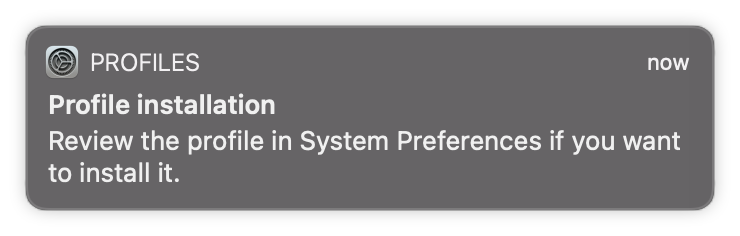
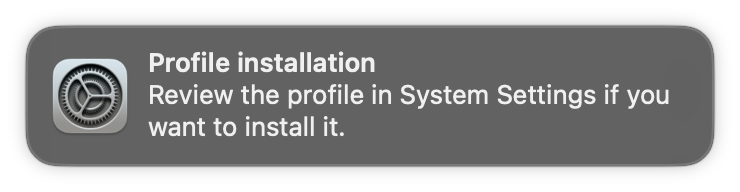
Updated the MacOS screenshots

Changed region(s): [[0.0311, 0.0938, 0.9635, 0.9062], [0.8703, 0.2188, 0.9324, 0.3125]]

diff --git a/_pages/mac-mdm2.md b/_pages/mac-mdm2.md
@@ -8,50 +8,47 @@ header:
   overlay_color: "#333"
 ---
 
+# Manually enrolling into our MDM
+
 As you didn't get the notification, we can use another method to try enroll your device. 
 
-First we are going to log into Slack.
-
-In Safari you will need to go to: __square.enterprise.slack.com__ where you will be prompted to set up Okta.
+* First we are going to log into Slack. In Safari you will need to go to: __square.enterprise.slack.com__ where you will be prompted to set up Okta.
 
 {% include duosetup.md %}
 
 After completing Okta setup you can open the appropriate Slack Workspace.
 
-Next, in Safari you will need to go to this website: __go.sqprod.co/mdmold__
-
-Once you get there you will be prompted to log in using Okta again. Enter the same login information you just used and __Send a Push__ when prompted.
+* Next, in Safari you will need to go to this website: __go.sqprod.co/mdmold__
+* Once you get there you will be prompted to log in using Okta again. Enter the same login information you just used and __Send a Push__ when prompted.
 
 {% include figure url="/assets/images/mac-enable-management.png" image_path="/assets/images/mac-enable-management.png" %}
 
-After logging in you will be presented with a screen asking you to __Enable Device Management__. Click on [Redirect and Enable](){: .btn .btn--inverse} 
+* After logging in you will be presented with a screen asking you to __Enable Device Management__. Click on [Redirect and Enable](){: .btn .btn--inverse} 
 
 {% include figure url="/assets/images/mac-allow-airwatch.png" image_path="/assets/images/mac-allow-airwatch.png" %}
 
-When prompted by Safari to allow downloads, click [Allow](){: .btn .btn--inverse} 
+* When prompted by Safari to allow downloads, click [Allow](){: .btn .btn--inverse} 
+
+* macOS will prompt you with a notification for __Profile Installation__. You will need to open __System Settings__ to complete the installation.
 
 {% include figure url="/assets/images/mac-review-profile.png" image_path="/assets/images/mac-review-profile.png" %}
 
+* You can find System Settings by clicking the __Apple logo__ on the top left corner of the screen.
+
 {% include figure url="/assets/images/mac-apple-menu.png" image_path="/assets/images/mac-apple-menu.png" %}
 
-macOS will prompt you with a notification for __Profile Installation__. You will need to open __System Preferences__ to complete the installation. You can find System Preferences by clicking the __Apple logo__ in the top left corner of the screen.
+* After opening up System Settings, click on the search bar on the top left and search for __Profiles__.
+* Click the [Profiles](){: .btn .btn--inverse}  button in the search option.
 
-{% include figure url="/assets/images/mac-system-preferences.png" image_path="/assets/images/mac-system-preferences.png" %}
+{% include figure url="/assets/images/mac-system-settings-05.png" image_path="/assets/images/mac-system-settings-05.png" %}
 
-In System Preferences, click the [Profiles](){: .btn .btn--inverse}  button in the bottom right corner.
+* Click [Install](){: .btn .btn--inverse}  when asked to install the Workspace Services profile.
 
-{% include figure url="/assets/images/mac-workspace-services.png" image_path="/assets/images/mac-workspace-services.png" %}
+{% include figure url="/assets/images/mac-system-settings-02.png" image_path="/assets/images/mac-system-settings-02.png" %}
 
-Click [Install](){: .btn .btn--inverse}  on the Workspace Services Profile
+* Enter your __laptop__ password when prompted.
+* After several seconds, you should see the __Device Manager__ profile show that your device has been verified.
 
-{% include figure url="/assets/images/mac-device-manager.png" image_path="/assets/images/mac-device-manager.png" %}
-
-Click [Install](){: .btn .btn--inverse}  when asked to install the Device Manager profile.
-
-Enter your __laptop__ password when prompted
-
-{% include figure url="/assets/images/mac-profiles.png" image_path="/assets/images/mac-profiles.png" %}
-
-After several seconds, you should see the __Device Manager__ profile show that your device has been verified.
+{% include figure url="/assets/images/mac-system-settings-04.png" image_path="/assets/images/mac-system-settings-04.png" %}
 
 [Next Step &rarr;](/mac-installs){: .btn .btn--success .btn--large}

diff --git a/_pages/mac-druva.md b/_pages/mac-druva.md
@@ -8,37 +8,31 @@ header:
   overlay_color: "#333"
 ---
 
-We use __Druva__ to continuously backup your MacBook to the cloud, just to be safe. Let’s check to see if it is activated now.
+# Druva Setup
 
-Start by clicking on the Druva icon near the Okta Verify icon in the top-right corner of your MacBook.
+* Start by clicking the Druva icon near the Okta Verify icon in the top-right corner of your MacBook.
+* Click on Activate Backup.
 
-If you see either of the below menus, Druva has been activated and you can [Restore Druva Backup &rarr;](/mac-druva-restore/){: .btn .btn--success .btn--large} or [Next Step &rarr;](/mac-yubikey/){: .btn .btn--success .btn--large}
+{% include figure url="/assets/images/mac-druva-01.png" image_path="/assets/images/mac-druva-01.png" %}
 
-{% include figure url="/assets/images/druva-mac3.jpeg" image_path="/assets/images/druva-mac3.jpeg" %}
+* Enter your username ending in @squareup.com and click Continue{: .btn .btn–inverse .btn–small}
+__Note:__ This will not work with an @tidal.com or @block.xyz domain. You must use @squareup.com. For example, use jsmith@squareup.com instead of jsmith@block.xyz.
 
-{% include figure url="/assets/images/druva-mac4.jpg" image_path="/assets/images/druva-mac4.jpg" %}
+{% include figure url="/assets/images/mac-druva-03.png" image_path="/assets/images/mac-druva-03.png" %}
 
-If you see “__Activate Backup…__” continue below:
+* After entering your username, a Google Chrome page will appear with a prompt asking you to “Open Druva inSync.” Click on Open Druva inSync.
 
-{% include figure url="/assets/images/druva-mac-tray.jpg" image_path="/assets/images/druva-mac-tray.jpg" %}
+{% include figure url="/assets/images/mac-druva-04.png" image_path="/assets/images/mac-druva-04.png" %}
 
-Click on __Activate Backup__.
+* Click on Add as New Device.
 
-{% include figure url="/assets/images/druva-activate.jpg" image_path="/assets/images/druva-activate.jpg" %}
+{% include figure url="/assets/images/mac-druva-05.png" image_path="/assets/images/mac-druva-05.png" %}
 
-Enter your username ending in __@squareup.com__ and click [Continue](){: .btn .btn--inverse .btn--small} 
-(This will not work with a @tidal.com or @block.xyz domain. You must use @squareup.com. An example of this is using jsmith@squareup.com instead of jsmith@block.xyz).
+* Druva will then display a screen with a loading bar, indicating that it’s backing up your data.
 
-{% include figure url="/assets/images/druva-login.jpg" image_path="/assets/images/druva-login.jpg" %}
-
-Chrome will launch and open to __cloud.druva.com__. This should automatically activate your account (if you have not recently performed an Okta login, you'll be prompted to do so). 
-
-When the __Open InSync?__ pop-up appears, click [Open InSync](){: .btn .btn--inverse .btn--small}.
-
-{% include figure url="/assets/images/druva-sso.jpg" image_path="/assets/images/druva-sso.jpg" %}
-
-The Druva window will come back to the foreground. __DON'T__ click any buttons until it finishes logging you in.
+{% include figure url="/assets/images/mac-druva-06.png" image_path="/assets/images/mac-druva-06.png" %}
 
 If this is your first Block laptop, you can __close__ the Druva window and go to the next step. Otherwise, click the button to restore your backup from your old Block laptop.
 
 [Next Step &rarr;](/mac-vpn/){: .btn .btn--success .btn--large} [Restore Druva Backup &rarr;](/mac-druva-restore/){: .btn .btn--success .btn--large} 
+{% include figure url="/assets/images/druva-mac-tray.jpg" image_path="/assets/images/druva-mac-tray.jpg" %}

diff --git a/_pages/mac-druva-restore.md b/_pages/mac-druva-restore.md
@@ -8,55 +8,22 @@ header:
   overlay_color: "#333"
 ---
 
-If Druva automatically activated and you want to restore files, follow these steps. Otherwise, jump to [Did you manually Activate Druva?](#gohere)
+# Restoring with Druva
 
-Start by clicking on the Druva icon in the top-right corner of your MacBook desktop and select “Open Preferences”
+* Click the Druva icon in the top-right corner, then select Restore.
 
-{% include figure url="/assets/images/druva-restore1.png" image_path="/assets/images/druva-restore1.png" %}
+{% include figure url="/assets/images/druva-restore-01.jpg" image_path="/assets/images/druva-restore-01.jpg" %}
 
-Within the Druva application, click the “Restore…” 
+* On the Druva inSync page, click Restore.
 
-{% include figure url="/assets/images/druva-restore2.png" image_path="/assets/images/druva-restore2.png" %}
+{% include figure url="/assets/images/druva-restore-02.jpg" image_path="/assets/images/druva-restore-02.jpg" %}
 
-A new “Druva Restore” window will appear. Review the machines listed and find the machine you would like to restore from.
+* A “Druva Restore” window will appear. Review the list of machines and select the one you want to restore from. Then, choose the date you want to restore from.
 
-Once you have selected the machine, select the date you would like to restore from.
+{% include figure url="/assets/images/druva-restore-03.jpg" image_path="/assets/images/druva-restore-03.jpg" %}
 
-{% include figure url="/assets/images/druva-restore3.png" image_path="/assets/images/druva-restore3.png" %}
+* Open the folders, and using the checkboxes, select only the data you need to restore (recommended). Files to be restored are typically found in the folder with your username.
+* Click Restore.
+* You can close the Druva window; the restore process (if any) will continue in the background.
 
-
-Click to open the folders, and using the checkboxes, select only the data that you need to restore (recommended). Files needing to be restored are typically found in the folder with your username.
-
-* Note - Do not restore all contents of your backup.
-
-Then click __Restore.__
-
-You may close the Druva window and the restore process (if any) will continue in the background. 
-
-
-__Did you manually activate Druva?__
-{: #gohere }
-
-Click [Replace an Existing Device](){: .btn .btn--inverse .btn--small} 
-
-{% include figure url="/assets/images/druva-mac1.jpg" image_path="/assets/images/druva-mac1.jpg" %}
-
-Click [Restore Now](){: .btn .btn--inverse .btn--small}.
-
-{% include figure url="/assets/images/druva-mac2.jpg" image_path="/assets/images/druva-mac2.jpg" %}
-
-A new “Druva Restore” window will appear, review the machines listed and find the machine you would like to restore from.
-
-Once you have selected the machine, select the date you would like to restore from.
-
-{% include figure url="/assets/images/druva-restore3.png" image_path="/assets/images/druva-restore3.png" %}
-
-Click to open the folders, and using the checkboxes, select only the data that you need to restore (recommended). Files needing to be restored are typically found in the folder with your username.
-
-* Note - Do not restore all contents of your backup.
-
-Then click __Restore.__
-
-You may close the Druva window and the restore process (if any) will continue in the background. 
-
-[Next Step &rarr;](/mac-yubikey/){: .btn .btn--success .btn--large}
+[Next Step &rarr;](/mac-vpn/){: .btn .btn--success .btn--large}

diff --git a/_pages/mac-installs.md b/_pages/mac-installs.md
@@ -14,7 +14,7 @@ The Managed Software Center will open as soon as possible after you have signed 
 
 {% include figure url="/assets/images/msc.png" image_path="assets/images/msc.png" %}
 
-If the Managed Softawre Center doesn't open up, please open Launchpad, scroll to the next page, and click on the Managed Software Center to manually open it up. {: .notice--warning}
+__Note:__ If the Managed Softawre Center doesn't open up, please open Launchpad, scroll to the next page, and click on the Managed Software Center to manually open it up.
 {% include figure url="/assets/images/mac-launchpad-01.png" image_path="assets/images/mac-launchpad-01.png" %}
 {% include figure url="/assets/images/mac-launchpad-02.png" image_path="assets/images/mac-launchpad-02.png" %}
 {% include figure url="/assets/images/mac-launchpad-03.png" image_path="assets/images/mac-launchpad-03.png" %}
@@ -29,8 +29,10 @@ Click [Log out and Update Now](){: .btn .btn--inverse .btn--small} to exit the i
 
 You may see some updates happening after you logout. After you no longer see any visual indication that an update is happening, __Login__ again using your __Laptop Password__ (which may be different than your Okta password).
 
+Once you're logged in, open the Managed Software Center, and click on __Updates__ to ensure all updates are completed. 
+
 # Apple's MacOS Update
-Equally important to the Managed Software Center Update, it is critical to run's Apple Software Update as well. If your computer is out of date, you will not be able to reach any Block internal tools.
+Equally important to the Managed Software Center updates, __it is critical to run's Apple Software Update__ as well. If your computer is out of date, you will not be able to reach any Block internal tools.
 
 Please follow our guide: [update your Mac OS](/mac-os-update).
 

diff --git a/_pages/mac-vpn.md b/_pages/mac-vpn.md
@@ -7,14 +7,19 @@ sidebar:
 header:
   overlay_color: "#333"
 ---
+# Cloudflare WARP VPN
 
-A Virtual Private Network (VPN) creates a private connection between your device and another network. Let's go ahead and get our VPN set up on your device.
+The Cloudflare WARP Client enables Block to protect corporate devices by securely and privately routing their traffic through Cloudflare’s global network, where Cloudflare Gateway applies advanced web filtering. This all-in-one VPN and web security solution replaces both the Ivanti VPN client and Umbrella. Unlike Ivanti, WARP runs continuously, so you don’t need to remember to connect to the VPN.
 
 The Cloudflare WARP VPN is already installed on your MacBook. Select the Cloudflare WARP icon <img src="/assets/images/Cloudfare-WARP.png" width='25' height='5' /> near the clock in the top-right corner of your MacBook.
 
-__Note:__ You will be prompted to authenticate via Okta the first time you use Cloudflare WARP. After authenticating, Cloudflare WARP will prompt you to re-authenticate daily to connect.
+* You will be prompted to authenticate via Okta the first time you use Cloudflare WARP. 
 
-{% include figure url="assets/images/Cloudfare-WARP2.png" image_path="assets/images/Cloudfare-WARP2.png" %}
+{% include figure url="assets/images/warp-02.png" image_path="assets/images/warp-02.png" %}
+
+* After authenticating, Cloudflare WARP will prompt you to re-authenticate daily to connect.
+
+{% include figure url="assets/images/warp-01.png" image_path="assets/images/warp-01.png" %}
 
 As long as it says __Connected__, you're all set!
 

diff --git a/_pages/mac-chrome.md b/_pages/mac-chrome.md
@@ -22,6 +22,8 @@ Before we move forward, it's critical to set Google Chrome as your Default Brows
 
 ## Setting up Okta Fastpass to work with Google Chrome
 
+__Note:__ If you don’t see the Okta Verify app on your computer, please don't install it from the App store. Ensure that you have completed all updates from the [Managed Software Center &rarr;](/_pages/mac-installs.md/). If the Managed Software Center is not on your computer, please follow this [link &rarr;](/_pages/mac-mdm.md) to manually install it. It is critical for Okta Verify to be installed by the Managed Software Center.  
+
 Okta FastPass provides a quick, easy and secure way to sign in and helps protect you from phishing.
 
 Before setting up Okta Verify, ensure that Bluetooth is enabled on both your MacBook and on your mobile device. 
@@ -41,6 +43,13 @@ Now make sure Bluetooth is turned __on__ on your mobile device. Use your control
 {% include figure url="/assets/images/mac-chrome-03.png" image_path="/assets/images/mac-chrome-03.png" %}
 
 * Enter the email address you received in your Welcome Email and the password you set.
+
+{% include figure url="/assets/images/mac-chrome-22.png" image_path="/assets/images/mac-chrome-22.png" %}
+
+* For the Okta Screen, enter your username and password
+
+{% include figure url="/assets/images/mac-chrome-21.png" image_path="/assets/images/mac-chrome-21.png" %}
+
 * Click “Use Okta Fastpass.”
 
 {% include figure url="/assets/images/mac-chrome-04.png" image_path="/assets/images/mac-chrome-04.png" %}

diff --git a/_pages/mac-setup.md b/_pages/mac-setup.md
@@ -46,7 +46,7 @@ Please note that you will be asked for your __Laptop Password__ periodically eve
 
 You may also be asked if you wish to use a Light or Dark visual theme to your desktop. You can also make these changes later in System Settings.
 
-{% include figure url="/assets/images/mac-desktop.png" image_path="/assets/images/mac-desktop.png"  %}
+{% include figure url="/assets/images/sonoma-homescreen.png" image_path="/assets/images/sonoma-homescreen.png"  %}
 
 After clicking through the remaining customization screens, you will arrive at the macOS desktop which will look similar to the above (perhaps with different wallpaper).
 
